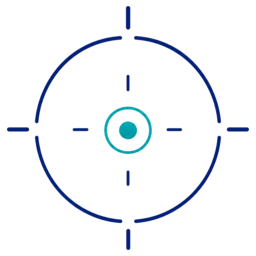
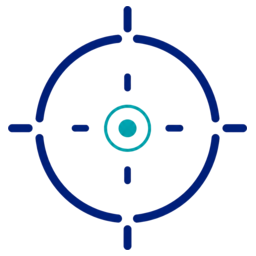
make worker identity details optional

diff --git a/src/worker_window.py b/src/worker_window.py
@@ -57,7 +57,7 @@ class WorkerWindow(QDialog):
 
         title = QLabel("Worker Management")
         title.setObjectName("dialogTitle")
-        subtitle = QLabel("Find a worker or create a new record. Required identity fields are shown first.")
+        subtitle = QLabel("Find a worker or create a new record. Worker ID is required; all other details are optional.")
         subtitle.setObjectName("dialogSubtitle")
         main_layout.addWidget(title)
         main_layout.addWidget(subtitle)
@@ -510,9 +510,10 @@ class WorkerWindow(QDialog):
 
         self.first_name_input.clear()
         self.last_name_input.clear()
-        self.dob_input.setDate(QDate.currentDate())
+        self.dob_input.setDate(self.dob_input.minimumDate())
         self.year_of_birth_input.setValue(QDate.currentDate().year())
-        self.age_label.setText("0 years")
+        self.age_label.setText("Not available")
+        self.gender_combo.setCurrentIndex(0)
         self.height_input.clear()
         self.weight_input.clear()
         self.address_input.clear()
@@ -593,7 +594,7 @@ class WorkerWindow(QDialog):
         self.worker_search_input.setEnabled(False)
         self.cancel_button.setEnabled(True)
         self.setNotification(
-            "Add height and weight when available. Year of birth and sex improve advanced filtering in PLOT and other tools.",
+            "Only Worker ID is required. Optional birth date, sex, height, and weight improve advanced filtering in PLOT and other tools.",
             "warning",
         )
 
@@ -679,7 +680,7 @@ class WorkerWindow(QDialog):
         heading.setObjectName("sectionTitle")
         page_layout.addWidget(heading)
 
-        required_note = QLabel("Required identity information")
+        required_note = QLabel("Required information")
         required_note.setObjectName("eyebrow")
         page_layout.addWidget(required_note)
 
@@ -696,9 +697,9 @@ class WorkerWindow(QDialog):
         self.worker_id_combo.setToolTip("Required. Enter a unique Worker ID without spaces.")
 
         self.first_name_input = QLineEdit()
-        self.first_name_input.setToolTip("Worker's first name. If used, a last name is also required.")
+        self.first_name_input.setToolTip("Optional worker first name.")
         self.last_name_input = QLineEdit()
-        self.last_name_input.setToolTip("Worker's last name. If used, a first name is also required.")
+        self.last_name_input.setToolTip("Optional worker last name.")
 
         self.year_of_birth_input = QSpinBox()
         self.year_of_birth_input.setRange(1900, QDate.currentDate().year())
@@ -710,27 +711,23 @@ class WorkerWindow(QDialog):
         self.dob_input = QDateEdit()
         self.dob_input.setCalendarPopup(True)
         self.dob_input.setDisplayFormat("dd MMM yyyy")
-        self.dob_input.setMinimumDate(QDate(1900, 1, 1))
+        self.dob_input.setMinimumDate(QDate(1899, 12, 31))
         self.dob_input.setMaximumDate(QDate.currentDate())
-        self.dob_input.setDate(QDate.currentDate())
-        self.dob_input.setToolTip("Required. Select the worker's complete date of birth. Age is calculated automatically.")
+        self.dob_input.setSpecialValueText("Not provided")
+        self.dob_input.setDate(self.dob_input.minimumDate())
+        self.dob_input.setToolTip("Optional complete date of birth. Age is calculated automatically when provided.")
         self.dob_input.dateChanged.connect(self.dateOfBirthChanged)
 
-        self.age_label = QLabel("0 years")
+        self.age_label = QLabel("Not available")
         self.age_label.setObjectName("calculatedValue")
-        self.age_label.setToolTip("Calculated from the year of birth and the current year.")
+        self.age_label.setToolTip("Calculated automatically when a date of birth is provided.")
 
         self.gender_combo = QComboBox()
-        self.gender_combo.addItems(["Female", "Male"])
-        self.gender_combo.setToolTip("Worker sex used for worker records and layout marker shape.")
+        self.gender_combo.addItems(["Not provided", "Female", "Male"])
+        self.gender_combo.setToolTip("Optional worker sex used for filtering and the PLOT marker shape.")
 
         required_fields = (
             (0, 0, "Worker ID", self.worker_id_combo),
-            (0, 2, "Sex", self.gender_combo),
-            (1, 0, "First name", self.first_name_input),
-            (1, 2, "Last name", self.last_name_input),
-            (2, 0, "Date of birth", self.dob_input),
-            (2, 2, "Calculated age", self.age_label),
         )
         for row, column, label_text, field in required_fields:
             label = QLabel(label_text)
@@ -751,7 +748,7 @@ class WorkerWindow(QDialog):
         self.optional_toggle.setChecked(False)
         self.optional_toggle.setToolButtonStyle(Qt.ToolButtonTextBesideIcon)
         self.optional_toggle.setArrowType(Qt.RightArrow)
-        self.optional_toggle.setToolTip("Show or hide optional employment and body measurement fields.")
+        self.optional_toggle.setToolTip("Show or hide optional identity, employment, and body measurement fields.")
         self.optional_toggle.toggled.connect(self.setOptionalDetailsVisible)
         page_layout.addWidget(self.optional_toggle)
 
@@ -795,6 +792,7 @@ class WorkerWindow(QDialog):
         self.state_combo.setCurrentIndex(-1)
         self.date_of_hiring_input = QDateEdit()
         self.date_of_hiring_input.setCalendarPopup(True)
+        self.date_of_hiring_input.setDisplayFormat("dd MMM yyyy")
         self.date_of_hiring_input.setDate(QDate.currentDate())
         self.date_of_hiring_input.setMinimumDate(QDate(1950, 1, 1))
         self.date_of_hiring_input.setMaximumDate(QDate.currentDate())
@@ -820,9 +818,14 @@ class WorkerWindow(QDialog):
         height_label = "Height (cm)" if metric_units else "Height (in)"
         weight_label = "Weight (kg)" if metric_units else "Weight (lb)"
         optional_fields = (
-            (0, 0, height_label, self.height_input),
-            (0, 2, weight_label, self.weight_input),
-            (1, 0, "Date of hiring", self.date_of_hiring_input),
+            (0, 0, "First name", self.first_name_input),
+            (0, 2, "Last name", self.last_name_input),
+            (1, 0, "Sex", self.gender_combo),
+            (1, 2, "Date of birth", self.dob_input),
+            (2, 0, "Calculated age", self.age_label),
+            (2, 2, "Date of hiring", self.date_of_hiring_input),
+            (3, 0, height_label, self.height_input),
+            (3, 2, weight_label, self.weight_input),
         )
         for row, column, label_text, field in optional_fields:
             label = QLabel(label_text)
@@ -1108,6 +1111,9 @@ class WorkerWindow(QDialog):
         self.calculateAge()
 
     def dateOfBirthChanged(self, date):
+        if date == self.dob_input.minimumDate():
+            self.age_label.setText("Not available")
+            return
         self.year_of_birth_input.blockSignals(True)
         self.year_of_birth_input.setValue(date.year())
         self.year_of_birth_input.blockSignals(False)
@@ -1381,19 +1387,21 @@ class WorkerWindow(QDialog):
                 self.last_name_input.setText(worker_data[2])  # Last Name
     
                 # Reconstruct Date of Birth from Year, Month, Day
-                dob_year = int(worker_data[3]) if worker_data[3] else QDate.currentDate().year()
-                dob_month = int(worker_data[4]) if worker_data[4] else QDate.currentDate().month()
-                dob_day = int(worker_data[5]) if worker_data[5] else QDate.currentDate().day()
-                dob = QDate(dob_year, dob_month, dob_day)
+                dob = self.dob_input.minimumDate()
+                if worker_data[3] and worker_data[4] and worker_data[5]:
+                    candidate = QDate(int(worker_data[3]), int(worker_data[4]), int(worker_data[5]))
+                    if candidate.isValid():
+                        dob = candidate
                 self.dob_input.setDate(dob)
-                self.year_of_birth_input.blockSignals(True)
-                self.year_of_birth_input.setValue(dob_year)
-                self.year_of_birth_input.blockSignals(False)
+                if dob != self.dob_input.minimumDate():
+                    self.year_of_birth_input.blockSignals(True)
+                    self.year_of_birth_input.setValue(dob.year())
+                    self.year_of_birth_input.blockSignals(False)
                 self.calculateAge()
     
                 # Gender Mapping
-                gender_value = worker_data[6] if worker_data[6] else "Female"  # Default to Female
-                gender_index = self.gender_combo.findText(gender_value)  # Get index of "Female" or "Male"
+                gender_value = worker_data[6] if worker_data[6] else "Not provided"
+                gender_index = self.gender_combo.findText(gender_value)
                 if gender_index != -1:
                     self.gender_combo.setCurrentIndex(gender_index)
     
@@ -1432,14 +1440,8 @@ class WorkerWindow(QDialog):
                 self.populateStatesForUSA()
                 self.state_combo.setCurrentText(worker_data[15])  # Adjusted index for state
                 self.selectWorkerTableRow()
-                missing_identity = not self.first_name_input.text().strip() or not self.last_name_input.text().strip()
                 missing_filter_data = not self.height_input.text().strip() or not self.weight_input.text().strip()
-                if missing_identity:
-                    self.setNotification(
-                        "This legacy record is missing a first or last name. Add the missing identity information before saving changes.",
-                        "warning",
-                    )
-                elif missing_filter_data:
+                if missing_filter_data:
                     self.setNotification(
                         "Height or weight is missing. Adding both improves advanced filtering in PLOT and other tools.",
                         "warning",
@@ -1550,6 +1552,9 @@ class WorkerWindow(QDialog):
     def calculateAge(self):
         today = QDate.currentDate()
         birth_date = self.dob_input.date()
+        if birth_date == self.dob_input.minimumDate():
+            self.age_label.setText("Not available")
+            return
         age = today.year() - birth_date.year()
         if (today.month(), today.day()) < (birth_date.month(), birth_date.day()):
             age -= 1
@@ -2398,10 +2403,7 @@ class WorkerWindow(QDialog):
         # Validate Worker ID
         worker_id = self.worker_id_combo.currentText().strip()
         if not worker_id:
-            self.setNotification(
-                "Minimum information must include Worker ID, first name, last name, date of birth, and sex.",
-                "error",
-            )
+            self.setNotification("Worker ID is required.", "error")
             self.worker_id_combo.setFocus()
             return
         
@@ -2413,31 +2415,21 @@ class WorkerWindow(QDialog):
             return
     
         # Collect all fields
-        # Validate First Name and Last Name
         first_name = self.first_name_input.text().strip()
         last_name = self.last_name_input.text().strip()
-
-        if not first_name or not last_name:
-            self.setNotification(
-                "Minimum information must include Worker ID, first name, last name, year of birth, and sex.",
-                "error",
-            )
-            (self.first_name_input if not first_name else self.last_name_input).setFocus()
-            return
-    
-        # If both are empty, keep them as blank
-        first_name = first_name if first_name else ""
-        last_name = last_name if last_name else ""
 
     
         # Extract Date of Birth
         dob = self.dob_input.date()
-        year_of_birth = dob.year()
-        month_of_birth = dob.month()
-        day_of_birth = dob.day()
+        has_dob = dob != self.dob_input.minimumDate()
+        year_of_birth = dob.year() if has_dob else None
+        month_of_birth = dob.month() if has_dob else None
+        day_of_birth = dob.day() if has_dob else None
     
         # Extract Gender
         gender = self.gender_combo.currentText().strip()
+        if gender == "Not provided":
+            gender = None
     
         height = float(self.height_input.text()) if self.height_input.text() else None
         weight = float(self.weight_input.text()) if self.weight_input.text() else None

diff --git a/tests/test_revised_ui_smoke.py b/tests/test_revised_ui_smoke.py
@@ -1,5 +1,8 @@
 import os
+import shutil
+import sqlite3
 import sys
+import tempfile
 
 os.environ.setdefault("QT_QPA_PLATFORM", "offscreen")
 os.environ.setdefault("MPLCONFIGDIR", "/tmp/matplotlib")
@@ -194,7 +197,35 @@ assert any(label in form_labels for label in ("Height (in)", "Height (cm)"))
 assert any(label in form_labels for label in ("Weight (lb)", "Weight (kg)"))
 assert "Date of hiring" in form_labels
 assert "Date of birth" in form_labels
+assert worker.optional_details.isAncestorOf(worker.first_name_input)
+assert worker.optional_details.isAncestorOf(worker.last_name_input)
+assert worker.optional_details.isAncestorOf(worker.gender_combo)
+assert worker.optional_details.isAncestorOf(worker.dob_input)
+assert worker.optional_details.isAncestorOf(worker.age_label)
+assert worker.gender_combo.itemText(0) == "Not provided"
+assert worker.dob_input.specialValueText() == "Not provided"
+assert worker.dob_input.displayFormat() == worker.date_of_hiring_input.displayFormat() == "dd MMM yyyy"
 assert worker.dob_input.calendarPopup()
+
+original_database = parent.projectdatabasePath
+with tempfile.NamedTemporaryFile(suffix=".db") as temporary_database:
+    shutil.copyfile(original_database, temporary_database.name)
+    parent.projectdatabasePath = temporary_database.name
+    worker.worker_id_combo.setEditText("__optional_test__")
+    worker.first_name_input.clear()
+    worker.last_name_input.clear()
+    worker.gender_combo.setCurrentIndex(0)
+    worker.dob_input.setDate(worker.dob_input.minimumDate())
+    worker.saveWorker()
+    with sqlite3.connect(temporary_database.name) as connection:
+        saved_optional_values = connection.execute(
+            "SELECT first_name, last_name, year_of_birth, month_of_birth, "
+            "day_of_birth, gender FROM Worker WHERE id = ?",
+            ("__optional_test__",),
+        ).fetchone()
+    assert saved_optional_values == ("", "", None, None, None, None)
+parent.projectdatabasePath = original_database
+
 worker.dob_input.setDate(QDate.currentDate().addYears(-20).addDays(1))
 assert worker.age_label.text() == "19 years"
 QTest.mouseClick(
